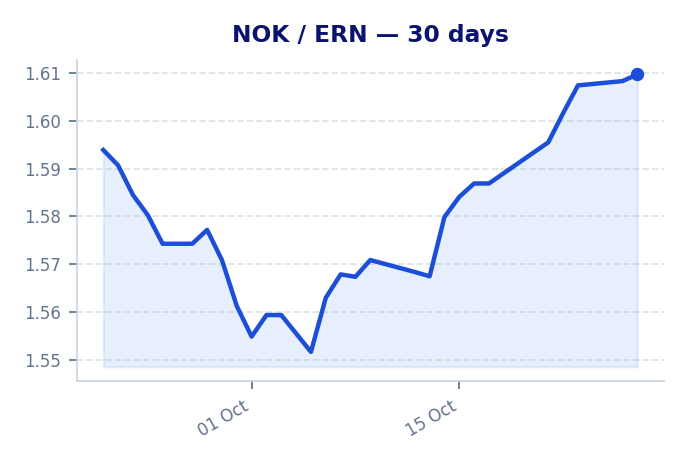
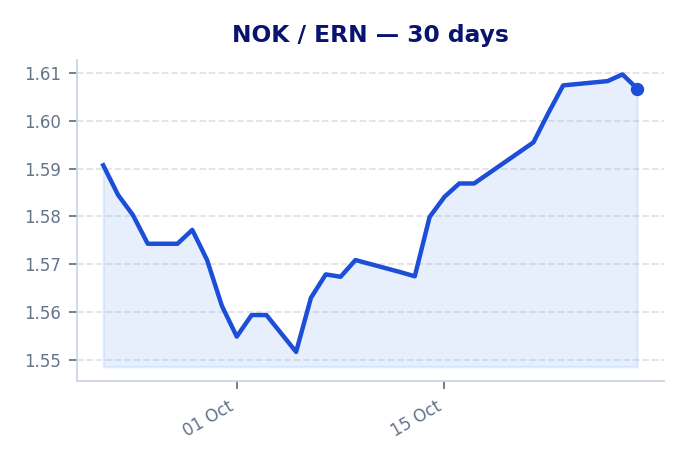
Add files via upload

Changed region(s): [[0.1221, 0.1509, 0.9462, 0.7845], [0.5494, 0.875, 0.6715, 0.9353], [0.2442, 0.875, 0.3663, 0.9353]]

diff --git a/index.html b/index.html
@@ -912,22 +912,22 @@ tr:hover {
 
             <div class="summary-item">
                 <div class="summary-label">SEK</div>
-                <div class="summary-value">1.5065</div>
+                <div class="summary-value">1.5064</div>
             </div>
 
             <div class="summary-item">
                 <div class="summary-label">NOK</div>
-                <div class="summary-value">1.6097</div>
+                <div class="summary-value">1.6067</div>
             </div>
 
             <div class="summary-item">
                 <div class="summary-label">DKK</div>
-                <div class="summary-value">2.241</div>
+                <div class="summary-value">2.2312</div>
             </div>
 
             </div>
             <div class="mid-market-meta">
-                <div><span style="font-weight:600" data-i18n="last-updated">Last Updated:</span> 2026-10-27 06:54</div>
+                <div><span style="font-weight:600" data-i18n="last-updated">Last Updated:</span> 2026-10-28 07:00</div>
                 <div style="font-size:0.8rem" data-i18n="mid-market-note">Official mid-market rates collected daily. Actual transfer payout rates shown below.</div>
             </div>
         </div>
@@ -951,7 +951,7 @@ tr:hover {
                 </div>
                 <div class="gainbox">
                     <span class="icon">💡</span> 
-                    <span data-i18n="smart-move">Smart Move: You get <b>+387 ERN</b> more with <b>Ria</b> vs <b>Juba Express</b></span>
+                    <span data-i18n="smart-move">Smart Move: You get <b>+392 ERN</b> more with <b>Ria</b> vs <b>Juba Express</b></span>
                 </div>
             </div>
             
@@ -978,7 +978,7 @@ tr:hover {
 <td class="right font-numeric">0,00</td>
 <td class="right nowrap font-numeric highlight-ern">14 800</td>
 <td class="right nowrap font-numeric">-</td>
-<td class="right font-numeric markup-good">1.76%</td>
+<td class="right font-numeric markup-good">1.75%</td>
 <td class="right font-numeric hide-mobile"><span class="badge best-badge">Best</span></td>
 </tr>
 
@@ -986,11 +986,11 @@ tr:hover {
 <td class="left">
     <div class="company-name">Transfer Galaxy</div>
 </td>
-<td class="right font-numeric">1.4691</td>
+<td class="right font-numeric">1.4673</td>
 <td class="right font-numeric">0,00</td>
-<td class="right nowrap font-numeric highlight-ern">14 691</td>
-<td class="right nowrap font-numeric"><span class="loss-text">-109 ERN</span></td>
-<td class="right font-numeric markup-cell">2.48%</td>
+<td class="right nowrap font-numeric highlight-ern">14 673</td>
+<td class="right nowrap font-numeric"><span class="loss-text">-127 ERN</span></td>
+<td class="right font-numeric markup-cell">2.60%</td>
 <td class="right font-numeric hide-mobile"><span class="badge rank-badge">#2</span></td>
 </tr>
 
@@ -998,11 +998,11 @@ tr:hover {
 <td class="left">
     <div class="company-name">Western Union</div>
 </td>
-<td class="right font-numeric">1.4680</td>
+<td class="right font-numeric">1.4673</td>
 <td class="right font-numeric">0,00</td>
-<td class="right nowrap font-numeric highlight-ern">14 680</td>
-<td class="right nowrap font-numeric"><span class="loss-text">-120 ERN</span></td>
-<td class="right font-numeric markup-cell">2.56%</td>
+<td class="right nowrap font-numeric highlight-ern">14 673</td>
+<td class="right nowrap font-numeric"><span class="loss-text">-127 ERN</span></td>
+<td class="right font-numeric markup-cell">2.60%</td>
 <td class="right font-numeric hide-mobile"><span class="badge rank-badge">#3</span></td>
 </tr>
 
@@ -1010,11 +1010,11 @@ tr:hover {
 <td class="left">
     <div class="company-name">Remitly</div>
 </td>
-<td class="right font-numeric">1.4672</td>
+<td class="right font-numeric">1.4655</td>
 <td class="right font-numeric">0,00</td>
-<td class="right nowrap font-numeric highlight-ern">14 672</td>
-<td class="right nowrap font-numeric"><span class="loss-text">-128 ERN</span></td>
-<td class="right font-numeric markup-cell">2.61%</td>
+<td class="right nowrap font-numeric highlight-ern">14 655</td>
+<td class="right nowrap font-numeric"><span class="loss-text">-145 ERN</span></td>
+<td class="right font-numeric markup-cell">2.72%</td>
 <td class="right font-numeric hide-mobile"><span class="badge rank-badge">#4</span></td>
 </tr>
 
@@ -1022,11 +1022,11 @@ tr:hover {
 <td class="left">
     <div class="company-name">Dahabshiil</div>
 </td>
-<td class="right font-numeric">1.4507</td>
+<td class="right font-numeric">1.4508</td>
 <td class="right font-numeric">0,00</td>
-<td class="right nowrap font-numeric highlight-ern">14 507</td>
+<td class="right nowrap font-numeric highlight-ern">14 508</td>
 <td class="right nowrap font-numeric"><span class="loss-text">-292 ERN</span></td>
-<td class="right font-numeric markup-cell">3.70%</td>
+<td class="right font-numeric markup-cell">3.69%</td>
 <td class="right font-numeric hide-mobile"><span class="badge rank-badge">#5</span></td>
 </tr>
 
@@ -1034,11 +1034,11 @@ tr:hover {
 <td class="left">
     <div class="company-name">Juba Express</div>
 </td>
-<td class="right font-numeric">1.4413</td>
+<td class="right font-numeric">1.4407</td>
 <td class="right font-numeric">0,00</td>
-<td class="right nowrap font-numeric highlight-ern">14 413</td>
-<td class="right nowrap font-numeric"><span class="loss-text">-387 ERN</span></td>
-<td class="right font-numeric markup-cell">4.33%</td>
+<td class="right nowrap font-numeric highlight-ern">14 407</td>
+<td class="right nowrap font-numeric"><span class="loss-text">-392 ERN</span></td>
+<td class="right font-numeric markup-cell">4.36%</td>
 <td class="right font-numeric hide-mobile"><span class="badge rank-badge">#6</span></td>
 </tr>
 
@@ -1060,11 +1060,11 @@ tr:hover {
             <div class="insight-boxes">
                 <div class="bestbox">
                     <span class="icon">🏆</span> 
-                    <span data-i18n="top-pick">Top Pick: <b>Transfer Galaxy</b> delivers <b>15 702 ERN</b></span>
+                    <span data-i18n="top-pick">Top Pick: <b>Ria Money Transfer</b> delivers <b>15 710 ERN</b></span>
                 </div>
                 <div class="gainbox">
                     <span class="icon">💡</span> 
-                    <span data-i18n="smart-move">Smart Move: You get <b>+860 ERN</b> more with <b>Transfer Galaxy</b> vs <b>Hidmona Money Transfer</b></span>
+                    <span data-i18n="smart-move">Smart Move: You get <b>+868 ERN</b> more with <b>Ria Money Transfer</b> vs <b>Hidmona Money Transfer</b></span>
                 </div>
             </div>
             
@@ -1085,25 +1085,25 @@ tr:hover {
                         
 <tr class="best-row">
 <td class="left">
-    <div class="company-name">Transfer Galaxy</div>
+    <div class="company-name">Ria Money Transfer</div>
 </td>
-<td class="right font-numeric">1.5702</td>
+<td class="right font-numeric">1.5710</td>
 <td class="right font-numeric">0,00</td>
-<td class="right nowrap font-numeric highlight-ern">15 702</td>
+<td class="right nowrap font-numeric highlight-ern">15 710</td>
 <td class="right nowrap font-numeric">-</td>
-<td class="right font-numeric markup-cell">2.45%</td>
+<td class="right font-numeric markup-cell">2.22%</td>
 <td class="right font-numeric hide-mobile"><span class="badge best-badge">Best</span></td>
 </tr>
 
 <tr class="">
 <td class="left">
-    <div class="company-name">Ria Money Transfer</div>
+    <div class="company-name">Transfer Galaxy</div>
 </td>
-<td class="right font-numeric">1.5680</td>
+<td class="right font-numeric">1.5643</td>
 <td class="right font-numeric">0,00</td>
-<td class="right nowrap font-numeric highlight-ern">15 680</td>
-<td class="right nowrap font-numeric"><span class="loss-text">-22 ERN</span></td>
-<td class="right font-numeric markup-cell">2.59%</td>
+<td class="right nowrap font-numeric highlight-ern">15 643</td>
+<td class="right nowrap font-numeric"><span class="loss-text">-67 ERN</span></td>
+<td class="right font-numeric markup-cell">2.64%</td>
 <td class="right font-numeric hide-mobile"><span class="badge rank-badge">#2</span></td>
 </tr>
 
@@ -1111,11 +1111,11 @@ tr:hover {
 <td class="left">
     <div class="company-name">Remitly</div>
 </td>
-<td class="right font-numeric">1.5587</td>
+<td class="right font-numeric">1.5577</td>
 <td class="right font-numeric">0,00</td>
-<td class="right nowrap font-numeric highlight-ern">15 587</td>
-<td class="right nowrap font-numeric"><span class="loss-text">-115 ERN</span></td>
-<td class="right font-numeric markup-cell">3.17%</td>
+<td class="right nowrap font-numeric highlight-ern">15 577</td>
+<td class="right nowrap font-numeric"><span class="loss-text">-133 ERN</span></td>
+<td class="right font-numeric markup-cell">3.05%</td>
 <td class="right font-numeric hide-mobile"><span class="badge rank-badge">#3</span></td>
 </tr>
 
@@ -1123,11 +1123,11 @@ tr:hover {
 <td class="left">
     <div class="company-name">Juba Express</div>
 </td>
-<td class="right font-numeric">1.5399</td>
+<td class="right font-numeric">1.5367</td>
 <td class="right font-numeric">0,00</td>
-<td class="right nowrap font-numeric highlight-ern">15 399</td>
-<td class="right nowrap font-numeric"><span class="loss-text">-303 ERN</span></td>
-<td class="right font-numeric markup-cell">4.34%</td>
+<td class="right nowrap font-numeric highlight-ern">15 367</td>
+<td class="right nowrap font-numeric"><span class="loss-text">-343 ERN</span></td>
+<td class="right font-numeric markup-cell">4.36%</td>
 <td class="right font-numeric hide-mobile"><span class="badge rank-badge">#4</span></td>
 </tr>
 
@@ -1135,10 +1135,10 @@ tr:hover {
 <td class="left">
     <div class="company-name">Dahabshiil</div>
 </td>
-<td class="right font-numeric">1.5019</td>
+<td class="right font-numeric">1.4991</td>
 <td class="right font-numeric">0,00</td>
-<td class="right nowrap font-numeric highlight-ern">15 019</td>
-<td class="right nowrap font-numeric"><span class="loss-text">-683 ERN</span></td>
+<td class="right nowrap font-numeric highlight-ern">14 991</td>
+<td class="right nowrap font-numeric"><span class="loss-text">-718 ERN</span></td>
 <td class="right font-numeric markup-cell">6.70%</td>
 <td class="right font-numeric hide-mobile"><span class="badge rank-badge">#5</span></td>
 </tr>
@@ -1150,8 +1150,8 @@ tr:hover {
 <td class="right font-numeric">1.4842</td>
 <td class="right font-numeric">0,00</td>
 <td class="right nowrap font-numeric highlight-ern">14 842</td>
-<td class="right nowrap font-numeric"><span class="loss-text">-860 ERN</span></td>
-<td class="right font-numeric markup-cell">7.80%</td>
+<td class="right nowrap font-numeric"><span class="loss-text">-868 ERN</span></td>
+<td class="right font-numeric markup-cell">7.62%</td>
 <td class="right font-numeric hide-mobile"><span class="badge rank-badge">#6</span></td>
 </tr>
 
@@ -1173,11 +1173,11 @@ tr:hover {
             <div class="insight-boxes">
                 <div class="bestbox">
                     <span class="icon">🏆</span> 
-                    <span data-i18n="top-pick">Top Pick: <b>Western Union</b> delivers <b>22 153 ERN</b></span>
+                    <span data-i18n="top-pick">Top Pick: <b>Western Union</b> delivers <b>22 059 ERN</b></span>
                 </div>
                 <div class="gainbox">
                     <span class="icon">💡</span> 
-                    <span data-i18n="smart-move">Smart Move: You get <b>+717 ERN</b> more with <b>Western Union</b> vs <b>Juba Express</b></span>
+                    <span data-i18n="smart-move">Smart Move: You get <b>+720 ERN</b> more with <b>Western Union</b> vs <b>Juba Express</b></span>
                 </div>
             </div>
             
@@ -1200,11 +1200,11 @@ tr:hover {
 <td class="left">
     <div class="company-name">Western Union</div>
 </td>
-<td class="right font-numeric">2.2153</td>
+<td class="right font-numeric">2.2059</td>
 <td class="right font-numeric">0,00</td>
-<td class="right nowrap font-numeric highlight-ern">22 153</td>
+<td class="right nowrap font-numeric highlight-ern">22 059</td>
 <td class="right nowrap font-numeric">-</td>
-<td class="right font-numeric markup-good">1.15%</td>
+<td class="right font-numeric markup-good">1.13%</td>
 <td class="right font-numeric hide-mobile"><span class="badge best-badge">Best</span></td>
 </tr>
 
@@ -1212,36 +1212,12 @@ tr:hover {
 <td class="left">
     <div class="company-name">Ria Money Transfer</div>
 </td>
-<td class="right font-numeric">2.2100</td>
+<td class="right font-numeric">2.2000</td>
 <td class="right font-numeric">0,00</td>
-<td class="right nowrap font-numeric highlight-ern">22 100</td>
-<td class="right nowrap font-numeric"><span class="loss-text">-53 ERN</span></td>
-<td class="right font-numeric markup-good">1.38%</td>
+<td class="right nowrap font-numeric highlight-ern">22 000</td>
+<td class="right nowrap font-numeric"><span class="loss-text">-59 ERN</span></td>
+<td class="right font-numeric markup-good">1.40%</td>
 <td class="right font-numeric hide-mobile"><span class="badge rank-badge">#2</span></td>
-</tr>
-
-<tr class="">
-<td class="left">
-    <div class="company-name">Remitly</div>
-</td>
-<td class="right font-numeric">2.1885</td>
-<td class="right font-numeric">0,00</td>
-<td class="right nowrap font-numeric highlight-ern">21 885</td>
-<td class="right nowrap font-numeric"><span class="loss-text">-268 ERN</span></td>
-<td class="right font-numeric markup-cell">2.34%</td>
-<td class="right font-numeric hide-mobile"><span class="badge rank-badge">#3</span></td>
-</tr>
-
-<tr class="">
-<td class="left">
-    <div class="company-name">Transfer Galaxy</div>
-</td>
-<td class="right font-numeric">2.1863</td>
-<td class="right font-numeric">0,00</td>
-<td class="right nowrap font-numeric highlight-ern">21 863</td>
-<td class="right nowrap font-numeric"><span class="loss-text">-290 ERN</span></td>
-<td class="right font-numeric markup-cell">2.44%</td>
-<td class="right font-numeric hide-mobile"><span class="badge rank-badge">#4</span></td>
 </tr>
 
 <tr class="">
@@ -1251,8 +1227,32 @@ tr:hover {
 <td class="right font-numeric">2.1817</td>
 <td class="right font-numeric">0,00</td>
 <td class="right nowrap font-numeric highlight-ern">21 817</td>
-<td class="right nowrap font-numeric"><span class="loss-text">-335 ERN</span></td>
-<td class="right font-numeric markup-cell">2.65%</td>
+<td class="right nowrap font-numeric"><span class="loss-text">-242 ERN</span></td>
+<td class="right font-numeric markup-cell">2.22%</td>
+<td class="right font-numeric hide-mobile"><span class="badge rank-badge">#3</span></td>
+</tr>
+
+<tr class="">
+<td class="left">
+    <div class="company-name">Remitly</div>
+</td>
+<td class="right font-numeric">2.1783</td>
+<td class="right font-numeric">0,00</td>
+<td class="right nowrap font-numeric highlight-ern">21 783</td>
+<td class="right nowrap font-numeric"><span class="loss-text">-276 ERN</span></td>
+<td class="right font-numeric markup-cell">2.37%</td>
+<td class="right font-numeric hide-mobile"><span class="badge rank-badge">#4</span></td>
+</tr>
+
+<tr class="">
+<td class="left">
+    <div class="company-name">Transfer Galaxy</div>
+</td>
+<td class="right font-numeric">2.1742</td>
+<td class="right font-numeric">0,00</td>
+<td class="right nowrap font-numeric highlight-ern">21 742</td>
+<td class="right nowrap font-numeric"><span class="loss-text">-317 ERN</span></td>
+<td class="right font-numeric markup-cell">2.55%</td>
 <td class="right font-numeric hide-mobile"><span class="badge rank-badge">#5</span></td>
 </tr>
 
@@ -1260,11 +1260,11 @@ tr:hover {
 <td class="left">
     <div class="company-name">Juba Express</div>
 </td>
-<td class="right font-numeric">2.1436</td>
+<td class="right font-numeric">2.1339</td>
 <td class="right font-numeric">0,00</td>
-<td class="right nowrap font-numeric highlight-ern">21 436</td>
-<td class="right nowrap font-numeric"><span class="loss-text">-717 ERN</span></td>
-<td class="right font-numeric markup-cell">4.35%</td>
+<td class="right nowrap font-numeric highlight-ern">21 339</td>
+<td class="right nowrap font-numeric"><span class="loss-text">-720 ERN</span></td>
+<td class="right font-numeric markup-cell">4.36%</td>
 <td class="right font-numeric hide-mobile"><span class="badge rank-badge">#6</span></td>
 </tr>
 
@@ -1282,7 +1282,7 @@ tr:hover {
             <div class="chart-card">
                 <div class="chart-header">
                     <img src="https://flagcdn.com/w40/se.png" class="flag-sm" alt="Sweden" width="24" height="16" loading="lazy" decoding="async"> <span>SEK / ERN</span>
-                    <span class="trend-badge down">▼ 1.5%</span>
+                    <span class="trend-badge down">▼ 1.3%</span>
                 </div>
                 <img src="sek_chart.png" class="chart-img" alt="SEK to ERN exchange-rate trend over the last 30 days" loading="lazy" decoding="async" width="688" height="464">
             </div>
@@ -1298,7 +1298,7 @@ tr:hover {
             <div class="chart-card">
                 <div class="chart-header">
                     <img src="https://flagcdn.com/w40/dk.png" class="flag-sm" alt="Denmark" width="24" height="16" loading="lazy" decoding="async"> <span>DKK / ERN</span>
-                    <span class="trend-badge down">▼ 2.8%</span>
+                    <span class="trend-badge down">▼ 3.1%</span>
                 </div>
                 <img src="dkk_chart.png" class="chart-img" alt="DKK to ERN exchange-rate trend over the last 30 days" loading="lazy" decoding="async" width="688" height="464">
             </div>
@@ -1361,7 +1361,7 @@ tr:hover {
         "calculator-note": "እቲ ዝበለጸ ክፍሊት ንዝኣተኻዮ መጠን ብተመሳሳሊ ሕሳብ ዋጋን ክፍሊትን ከም ሰንጠረዥ ይደጋገም።"
     };
 
-    const calculatorData = {"SEK": [{"provider": "Ria", "rate": 1.48, "total_fee": 0.0}, {"provider": "Transfer Galaxy", "rate": 1.4691, "total_fee": 0.0}, {"provider": "Western Union", "rate": 1.468, "total_fee": 0.0}, {"provider": "Remitly", "rate": 1.4672, "total_fee": 0.0}, {"provider": "Dahabshiil", "rate": 1.4507, "total_fee": 0.0}, {"provider": "Juba Express", "rate": 1.4413, "total_fee": 0.0}], "NOK": [{"provider": "Transfer Galaxy", "rate": 1.5702, "total_fee": 0.0}, {"provider": "Ria Money Transfer", "rate": 1.568, "total_fee": 0.0}, {"provider": "Remitly", "rate": 1.5587, "total_fee": 0.0}, {"provider": "Juba Express", "rate": 1.5399, "total_fee": 0.0}, {"provider": "Dahabshiil", "rate": 1.5019, "total_fee": 0.0}, {"provider": "Hidmona Money Transfer", "rate": 1.4842, "total_fee": 0.0}], "DKK": [{"provider": "Western Union", "rate": 2.2153, "total_fee": 0.0}, {"provider": "Ria Money Transfer", "rate": 2.21, "total_fee": 0.0}, {"provider": "Remitly", "rate": 2.1885, "total_fee": 0.0}, {"provider": "Transfer Galaxy", "rate": 2.1863, "total_fee": 0.0}, {"provider": "Hidmona Money Transfer", "rate": 2.1817, "total_fee": 0.0}, {"provider": "Juba Express", "rate": 2.1436, "total_fee": 0.0}]};
+    const calculatorData = {"SEK": [{"provider": "Ria", "rate": 1.48, "total_fee": 0.0}, {"provider": "Transfer Galaxy", "rate": 1.4673, "total_fee": 0.0}, {"provider": "Western Union", "rate": 1.4673, "total_fee": 0.0}, {"provider": "Remitly", "rate": 1.4655, "total_fee": 0.0}, {"provider": "Dahabshiil", "rate": 1.4508, "total_fee": 0.0}, {"provider": "Juba Express", "rate": 1.4407, "total_fee": 0.0}], "NOK": [{"provider": "Ria Money Transfer", "rate": 1.571, "total_fee": 0.0}, {"provider": "Transfer Galaxy", "rate": 1.5643, "total_fee": 0.0}, {"provider": "Remitly", "rate": 1.5577, "total_fee": 0.0}, {"provider": "Juba Express", "rate": 1.5367, "total_fee": 0.0}, {"provider": "Dahabshiil", "rate": 1.4991, "total_fee": 0.0}, {"provider": "Hidmona Money Transfer", "rate": 1.4842, "total_fee": 0.0}], "DKK": [{"provider": "Western Union", "rate": 2.2059, "total_fee": 0.0}, {"provider": "Ria Money Transfer", "rate": 2.2, "total_fee": 0.0}, {"provider": "Hidmona Money Transfer", "rate": 2.1817, "total_fee": 0.0}, {"provider": "Remitly", "rate": 2.1783, "total_fee": 0.0}, {"provider": "Transfer Galaxy", "rate": 2.1742, "total_fee": 0.0}, {"provider": "Juba Express", "rate": 2.1339, "total_fee": 0.0}]};
     const labels = [...document.querySelectorAll('[data-i18n]')];
     const english = new Map(labels.map(el => [el, el.innerHTML]));
 
